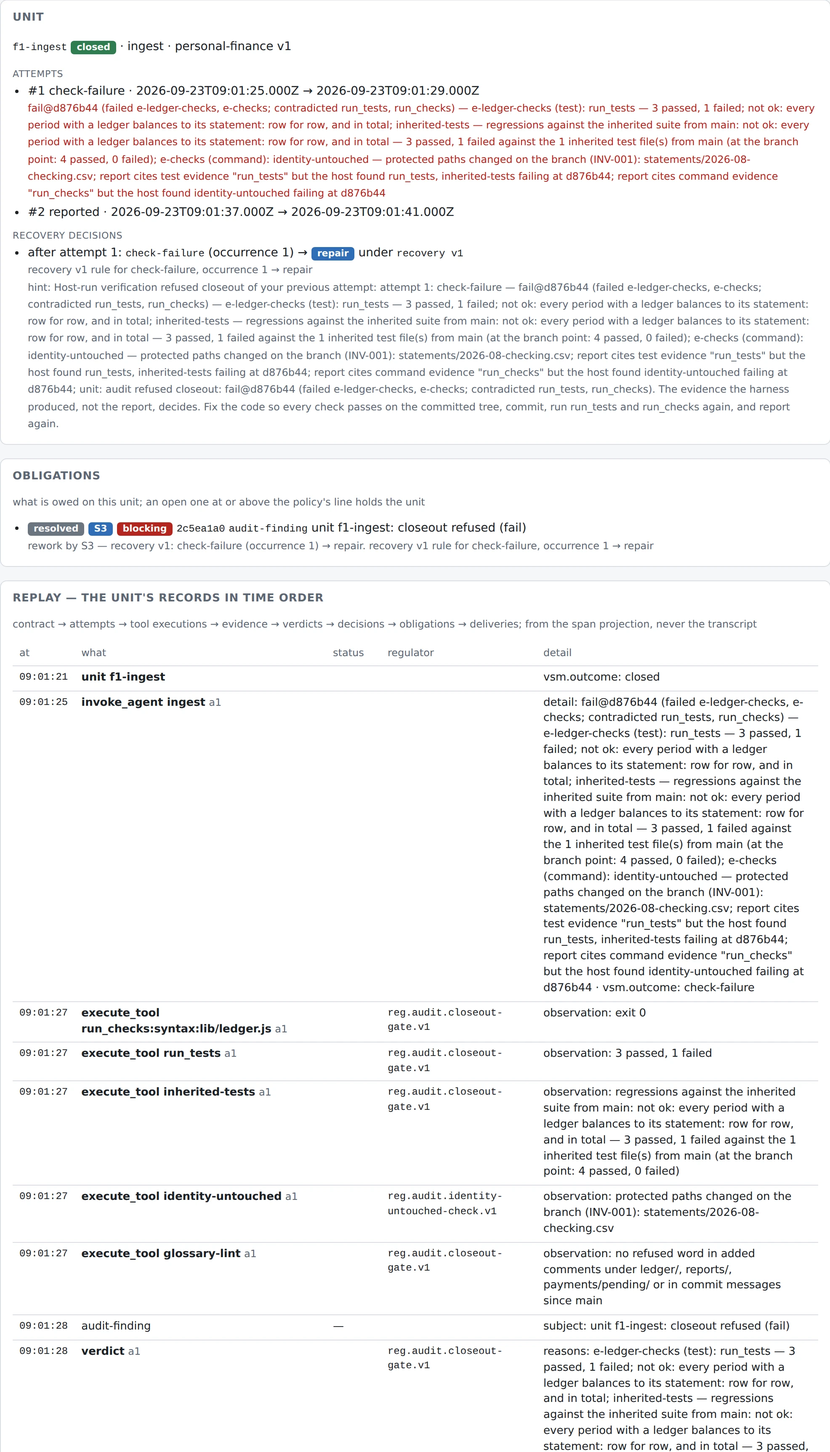
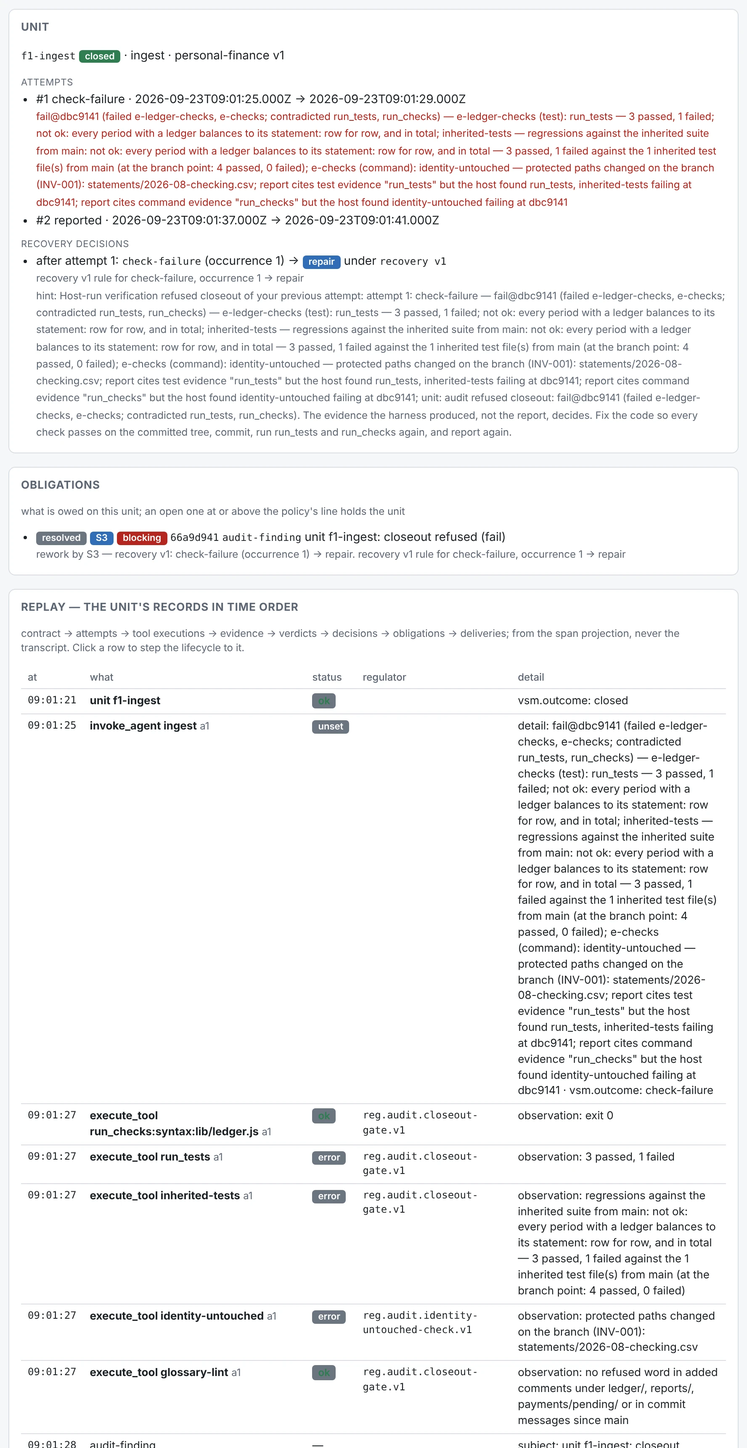
Retake the control-room screenshots from the product's script; add the lifecycle and map views
Nine images retaken by regulator's scripts/screenshots.mjs, two added
(lifecycle-f1, map) and shown on the product and ledger pages. Alt texts
and captions now say what the images show (three workloads, six
profiles). The v1 archive keeps its own copies of the images it shows;
four images no page uses are removed. The product page's retired-cards
sentence says fifty-three.

Claude-Session: https://claude.ai/code/session_014uhRNqFCFdvFUxUkzJQCse

diff --git a/site/personal-finance.html b/site/personal-finance.html
@@ -442,18 +442,18 @@ regulator-control-room --definition $R --instance ~/ledger   <span class="c"># @
   <h2 class="title">The same records, read back</h2>
   <p class="lede">The control room is a read-only dashboard: a web page that shows you
     everything the system recorded about the run in step 3, without being able to change
-    any of it. Below are three real screenshots of it, each with a plain-language
+    any of it. Below are four real screenshots of it, each with a plain-language
     breakdown of what's on screen.</p>
 
   <div class="shot-row">
-    <div class="shot-img"><img src="img/control-room/instances-ledger.webp" alt="The control room's instances view for the household ledger: the manifest line, five units with status, attempts, routing and audit revision, the live lease, the open consent obligation marked veto, the interaction row and the scoped memory entry." loading="lazy"></div>
+    <div class="shot-img"><img src="img/control-room/instances-ledger.webp" alt="The control room's instances view for the household ledger: the manifest line, five units with status, attempts, routing and audit revision, the expired lease of the paused unit, the open consent obligation marked veto, the interaction row and the scoped memory entries." loading="lazy"></div>
     <div class="shot-notes">
       <div class="shot-title">The overview: everything about this run, at a glance</div>
       <ul>
         <li>Top: which ledger this is, which code revision ran it, and who set it up.</li>
         <li>A row per unit: four say <b>closed</b> (done and independently verified), one says <b>paused</b>, waiting on a person.</li>
         <li>One open question, front and center: "can we pay the rent?", flagged as blocking until someone answers it.</li>
-        <li>One remembered fact (the grocery-store categorization from earlier), tagged with a date to double-check it's still true.</li>
+        <li>What the bookkeeper remembered (the grocery-store categorization from earlier), each fact tagged with a date to double-check it's still true.</li>
       </ul>
     </div>
   </div>
@@ -464,7 +464,7 @@ regulator-control-room --definition $R --instance ~/ledger   <span class="c"># @
     waiting on a person, and one that made a mistake and got corrected automatically.</p>
 
   <div class="shot-row">
-    <div class="shot-img"><img src="img/control-room/inspector-unit-f5.webp" alt="The unit inspector for f5-prepare-payment: the paused attempt, the consent obligation, the replay from contract to delivery, an empty audit, the contract with its fixed decisions, and the result report with its residual uncertainty." loading="lazy"></div>
+    <div class="shot-img"><img src="img/control-room/inspector-unit-f5.webp" alt="The unit inspector for f5-prepare-payment: the paused attempt, the consent obligation, the replay from contract to delivery, and an empty audit section." loading="lazy"></div>
     <div class="shot-notes">
       <div class="shot-title">Drill-down #1: the unit that's waiting on a person</div>
       <ul>
@@ -478,14 +478,28 @@ regulator-control-room --definition $R --instance ~/ledger   <span class="c"># @
   </div>
 
   <div class="shot-row">
-    <div class="shot-img"><img src="img/control-room/inspector-unit-f1.webp" alt="The unit inspector for f1-ingest run careless: attempt 1 refused with the failing checks named, the repair decision and its hint, the replay with each host check and its observation, and attempt 2 closed, with the pre-merge trial's checks on the merged tree bound to the commit that landed." loading="lazy"></div>
+    <div class="shot-img"><img src="img/control-room/inspector-unit-f1.webp" alt="The unit inspector for f1-ingest run careless: attempt 1 refused with the failing checks named, the repair decision and its hint, the audit finding resolved by the rework, and the start of the replay with each host check and its observation." loading="lazy"></div>
     <div class="shot-notes">
       <div class="shot-title">Drill-down #2: the unit that made a mistake, then fixed it</div>
       <ul>
         <li>This is the "careless" run from step 3, the one that edited the bank statement by mistake.</li>
         <li>Its first attempt is marked <b>failed</b>, with the specific tests and checks that caught it named outright.</li>
         <li>Next: the system's decision to try again, plus a hint telling the retry exactly what went wrong.</li>
-        <li>Its second attempt is marked <b>closed</b>. This time everything passed, including one final check run after merging.</li>
+        <li>Its second attempt reported, and the unit is marked <b>closed</b>: this time everything passed.</li>
+        <li>Below that, the replay: each check the host ran on the first attempt, and what it observed.</li>
+      </ul>
+    </div>
+  </div>
+
+  <div class="shot-row">
+    <div class="shot-img"><img src="img/control-room/lifecycle-f1.webp" alt="The lifecycle view held at step 3 of f1-ingest: the unit state machine with the dispatched-to-blocked transition lit, and the why panel listing the failed checks and the edited statement." loading="lazy"></div>
+    <div class="shot-notes">
+      <div class="shot-title">The same mistake, as a path through the state machine</div>
+      <ul>
+        <li>Six boxes: every state a unit can be in. The arrows are the only moves the system allows between them.</li>
+        <li>The slider steps through this unit's history. Here it is held at step 3, where the first attempt ended.</li>
+        <li>The lit arrow is the move that step took: from <b>dispatched</b> to <b>blocked</b>.</li>
+        <li>The panel underneath says why, in the records' own words: which checks failed, and the bank statement that should not have been touched.</li>
       </ul>
     </div>
   </div>
@@ -493,10 +507,10 @@ regulator-control-room --definition $R --instance ~/ledger   <span class="c"># @
   <p class="step-lead" style="margin-top:26px;">Two more views exist in the same dashboard,
     shown smaller here since they're less central to this walkthrough:</p>
   <div class="grid2">
-    <figure class="shot"><img src="img/control-room/workloads.webp" alt="The definition's workloads: personal-finance and software-development, each unit type with its profile and checks." loading="lazy"><figcaption><b>Every kind of job the system knows how to run.</b> This household ledger and the software-development one from the rest of the course, side by side: proof the same engine runs both.</figcaption></figure>
-    <figure class="shot"><img src="img/control-room/profiles.webp" alt="The definition's five profiles with their tools, writable prefixes and thinking level." loading="lazy"><figcaption><b>Every permission grant the system knows about.</b> What each profile (bookkeeper, auditor, and the software ones) is actually allowed to touch.</figcaption></figure>
+    <figure class="shot"><img src="img/control-room/workloads.webp" alt="The definition's three workloads: personal-finance, portfolio and software-development, each unit type with its profile and checks." loading="lazy"><figcaption><b>Every kind of job the system knows how to run.</b> This household ledger, the portfolio close and the software-development one from the rest of the course, side by side: proof the same engine runs all three.</figcaption></figure>
+    <figure class="shot"><img src="img/control-room/profiles.webp" alt="The definition's six profiles with their tools, writable prefixes and thinking level." loading="lazy"><figcaption><b>Every permission grant the system knows about.</b> What each profile (bookkeeper, auditor, the portfolio's manager, and the software ones) is actually allowed to touch.</figcaption></figure>
   </div>
-  <p style="font-size:13.5px;color:var(--ink-dim);margin-top:14px;">More of this same dashboard (the full topology, the assurance and lifecycle views, a live instance under drift) is shown on <a href="product.html#control-room">the product page</a>.</p>
+  <p style="font-size:13.5px;color:var(--ink-dim);margin-top:14px;">More of this same dashboard (the full topology and the map of one regulated level) is shown on <a href="product.html#control-room">the product page</a>.</p>
 
   <p style="font-size:13px;color:var(--ink-dim);margin:18px 0 0;"><b style="color:var(--ink);">In the docs:</b> <a href="https://docs.regulator.metacoding.io/guide/control-room">The control room</a></p>
 </section>

diff --git a/site/v1/index.html b/site/v1/index.html
@@ -669,24 +669,24 @@
     and an inspector showing the whole record for a regulator or a unit, with the unit's
     replay in time order from the span projection. Below, the page itself over two instances.</p>
 
-  <figure class="shot"><img src="../img/control-room/overview.webp" alt="The control room as it opens: the definition's topology of 42 regulators in S5 to S1 columns on the left, and the inspector on the right showing the closeout gate's record." loading="lazy">
+  <figure class="shot"><img src="img/control-room/overview.webp" alt="The control room as it opens: the definition's topology of 42 regulators in S5 to S1 columns on the left, and the inspector on the right showing the closeout gate's record." loading="lazy">
     <figcaption><b>The page as it opens.</b> Left, the definition: 42 regulators by function, each card the channels it consumes and emits. Right, the inspector on a selected card — the closeout gate's record: purpose, what it absorbs, mechanism, authority, evidence, limitations, review date, ablation, retirement. The record, not a summary of it.</figcaption></figure>
 
   <div class="shots2">
-    <figure class="shot"><img src="../img/control-room/instances-ledger.webp" alt="The instances view for a household-ledger instance: manifest line, five units, a live lease, an open consent obligation with the veto marked, an interaction row and a memory entry." loading="lazy">
+    <figure class="shot"><img src="img/control-room/instances-ledger.webp" alt="The instances view for a household-ledger instance: manifest line, five units, a live lease, an open consent obligation with the veto marked, an interaction row and a memory entry." loading="lazy">
       <figcaption><b>Instances.</b> The <a href="personal-finance.html">household ledger</a> after its August close: four units closed, one paused on a consent question that is an open obligation owed to a person, delivered to the outbox, holding the unit.</figcaption></figure>
-    <figure class="shot"><img src="../img/control-room/instances-drift.webp" alt="The instances view for the slugkit drift instance: six units blocked after three attempts each, routed check-failure to replan, six live leases, six recovery-decision obligations owed to S3." loading="lazy">
+    <figure class="shot"><img src="img/control-room/instances-drift.webp" alt="The instances view for the slugkit drift instance: six units blocked after three attempts each, routed check-failure to replan, six live leases, six recovery-decision obligations owed to S3." loading="lazy">
       <figcaption><b>Instances.</b> The drift scenario run by the drifter under the treatment arm: every unit refused three times by the closeout checks, routed <code>repair → repair → replan</code>, and held by the obligation the replan opened for S3.</figcaption></figure>
   </div>
 
   <div class="shots2">
-    <figure class="shot"><img src="../img/control-room/assurance.webp" alt="The assurance view: the drift suite's arms and the committed reports' metrics per arm with confidence intervals and the interpretation." loading="lazy">
+    <figure class="shot"><img src="img/control-room/assurance.webp" alt="The assurance view: the drift suite's arms and the committed reports' metrics per arm with confidence intervals and the interpretation." loading="lazy">
       <figcaption><b>Assurance.</b> The suite's arms — control, treatment, three ablations — and each committed report: every metric per arm with its interval, and the person's interpretation, including where the gated arm lost.</figcaption></figure>
-    <figure class="shot"><img src="../img/control-room/lifecycle.webp" alt="The lifecycle view: each regulator's review date, ablation switch, the arm that covers it, and its retirement condition." loading="lazy">
+    <figure class="shot"><img src="img/control-room/lifecycle.webp" alt="The lifecycle view: each regulator's review date, ablation switch, the arm that covers it, and its retirement condition." loading="lazy">
       <figcaption><b>Lifecycle.</b> Every regulator's review date (overdue fails <code>regulator check</code>), its ablation switch and the arm that throws it, and the condition under which it retires.</figcaption></figure>
   </div>
 
-  <figure class="shot"><img src="../img/control-room/inspector-unit-drift.webp" alt="The unit inspector for d1-fix in the drift instance: three attempts each refused, the recovery decisions with their hints, the replay of every host check with its observation, and the audit verdicts." loading="lazy">
+  <figure class="shot"><img src="img/control-room/inspector-unit-drift.webp" alt="The unit inspector for d1-fix in the drift instance: three attempts each refused, the recovery decisions with their hints, the replay of every host check with its observation, and the audit verdicts." loading="lazy">
     <figcaption><b>Inspector — a unit's replay</b> (the top of it). One drifting unit: three attempts, each refused by <code>export-signature</code> and the vendor and identity checks; the router's decisions with the hint each attempt was given; the obligations each opened and resolved; then the replay — contract, <code>invoke_agent</code>, every <code>execute_tool</code> check with its observation, verdict, decision, obligation — from the span projection, never the transcript. Below what is shown: the audit log, the contract and the three reports as written.</figcaption></figure>
 
   <p style="font-size:13.5px;color:var(--ink-dim);margin-top:14px;">The ledger's own inspector views — the paused payment unit and the careless ingest unit refused and repaired — are on the <a href="personal-finance.html#room">worked example</a>.</p>

diff --git a/site/v1/personal-finance.html b/site/v1/personal-finance.html
@@ -307,18 +307,18 @@ node packages/control-room/dist/cli.js --definition course/lab --instance ~/ledg
     instance after the scripted close, with <code>f1-ingest</code> run careless and
     <code>f5-prepare-payment</code> left waiting on consent.</p>
 
-  <figure class="shot"><img src="../img/control-room/instances-ledger.webp" alt="The control room's instances view for the household ledger: the manifest line, five units with status, attempts, routing and audit revision, the live lease, the open consent obligation marked veto, the interaction row and the scoped memory entry." loading="lazy">
+  <figure class="shot"><img src="img/control-room/instances-ledger.webp" alt="The control room's instances view for the household ledger: the manifest line, five units with status, attempts, routing and audit revision, the live lease, the open consent obligation marked veto, the interaction row and the scoped memory entry." loading="lazy">
     <figcaption><b>Instances.</b> The manifest line (definition, revision, Pi pin, who initialized it, the declared prefixes); five units — four closed, <code>f1-ingest</code> after a <code>check-failure → repair</code>, <code>f5-prepare-payment</code> paused; the live lease; the consent obligation, open, owed to a human, blocking, <em>veto</em>; the interaction with <code>S1</code> as the outcome's author because nobody was there; the memory entry with its review date.</figcaption></figure>
 
-  <figure class="shot"><img src="../img/control-room/inspector-unit-f5.webp" alt="The unit inspector for f5-prepare-payment: the paused attempt, the consent obligation, the replay from contract to delivery, an empty audit, the contract with its fixed decisions, and the result report with its residual uncertainty." loading="lazy">
+  <figure class="shot"><img src="img/control-room/inspector-unit-f5.webp" alt="The unit inspector for f5-prepare-payment: the paused attempt, the consent obligation, the replay from contract to delivery, an empty audit, the contract with its fixed decisions, and the result report with its residual uncertainty." loading="lazy">
     <figcaption><b>Inspector — the paused unit.</b> The attempt recorded as paused with the question; the obligation delivered once to the outbox; the replay in time order — <code>invoke_agent</code>, obligation opened, interaction requested and answered <em>unavailable</em>, the delivery journaled as intended then committed; no audit, because nothing was verified; the contract with consent fixed by a named person; the report saying nothing was written.</figcaption></figure>
 
-  <figure class="shot"><img src="../img/control-room/inspector-unit-f1.webp" alt="The unit inspector for f1-ingest run careless: attempt 1 refused with the failing checks named, the repair decision and its hint, the replay with each host check and its observation, and attempt 2 closed with the post-merge checks." loading="lazy">
+  <figure class="shot"><img src="img/control-room/inspector-unit-f1.webp" alt="The unit inspector for f1-ingest run careless: attempt 1 refused with the failing checks named, the repair decision and its hint, the replay with each host check and its observation, and attempt 2 closed with the post-merge checks." loading="lazy">
     <figcaption><b>Inspector — the careless unit.</b> Attempt 1: <code>run_tests</code> 3 passed 1 failed, <code>identity-untouched</code> naming <code>statements/2026-08-checking.csv</code>, the report's claims contradicted by the host; the verdict, the audit finding, the router's <code>repair</code> with its hint. Attempt 2: four passing checks, the verdict, the merge, and <code>post-merge:run_tests</code> on the base.</figcaption></figure>
 
   <div class="grid2">
-    <figure class="shot"><img src="../img/control-room/workloads.webp" alt="The definition's workloads: personal-finance and software-development, each unit type with its profile and checks." loading="lazy"><figcaption><b>Definition — two workloads.</b> The loop is generic over them; each unit type names its profile and the checks the host runs.</figcaption></figure>
-    <figure class="shot"><img src="../img/control-room/profiles.webp" alt="The definition's five profiles with their tools, writable prefixes and thinking level." loading="lazy"><figcaption><b>Definition — five profiles.</b> Positive grants over declared effects; the bookkeeper's prefixes and the auditor's empty ones.</figcaption></figure>
+    <figure class="shot"><img src="img/control-room/workloads.webp" alt="The definition's workloads: personal-finance and software-development, each unit type with its profile and checks." loading="lazy"><figcaption><b>Definition — two workloads.</b> The loop is generic over them; each unit type names its profile and the checks the host runs.</figcaption></figure>
+    <figure class="shot"><img src="img/control-room/profiles.webp" alt="The definition's five profiles with their tools, writable prefixes and thinking level." loading="lazy"><figcaption><b>Definition — five profiles.</b> Positive grants over declared effects; the bookkeeper's prefixes and the auditor's empty ones.</figcaption></figure>
   </div>
   <p style="font-size:13.5px;color:var(--ink-dim);margin-top:14px;">More of the page — the topology, the assurance and lifecycle views, the drift instance — on the <a href="index.html#control-room">overview</a>.</p>
 </section>

diff --git a/site/product.html b/site/product.html
@@ -713,7 +713,7 @@
     <tr><td><b>ownership</b>, <b>introducedIn</b></td><td>who reviews it and by when — <code>regulator review --due</code> lists what is owed, and <code>doctor</code> fails on an overdue date — and the release that first shipped it</td></tr>
   </table></div>
   <p style="font-size:13.5px;color:var(--ink-dim);margin:18px 0 0;"><b style="color:var(--ink);">Retirement is a decision, and the record stays.</b>
-    Two of the forty-five cards are retired: the first lexical write gate, superseded by the identity write gate, and the post-merge check, replaced by the pre-merge trial. Each keeps its history and says what replaced it, so the registry reads as the system's memory of itself, not only its present.</p>
+    Two of the fifty-three cards are retired: the first lexical write gate, superseded by the identity write gate, and the post-merge check, replaced by the pre-merge trial. Each keeps its history and says what replaced it, so the registry reads as the system's memory of itself, not only its present.</p>
   <p style="font-size:13px;color:var(--ink-dim);margin:18px 0 0;"><b style="color:var(--ink);">In the docs:</b> <a href="https://docs.regulator.metacoding.io/reference/regulators">The regulators</a> · <a href="https://docs.regulator.metacoding.io/reference/boundary">Enforcement boundary</a> · <a href="https://docs.regulator.metacoding.io/DEBT">Build debt</a></p>
 </section>
 
@@ -729,16 +729,23 @@
     <div><b style="color:var(--ink);">Topology</b> — regulators by function, with the channels each one declares it consumes and emits.</div>
     <div><b style="color:var(--ink);">Instances</b> — every instance's units with budget, routing decision, audit verdict and what's owed on them; <button type="button" class="gl" data-term="lease">leases</button>; <button type="button" class="gl" data-term="obligation">obligations</button> by consumer, with the veto marked; unrouted signals; the instance manifest.</div>
     <div><b style="color:var(--ink);">Assurance &amp; lifecycle</b> — the committed eval reports, plus each regulator's review date, ablation switch and retirement condition.</div>
+    <div><b style="color:var(--ink);">Lifecycle</b> — the unit state machine the loop enforces, with a selected unit's history stepped through it and the reason for each move.</div>
+    <div><b style="color:var(--ink);">Map</b> — one regulated level drawn from the definition, with the instance's units placed on it.</div>
     <div><b style="color:var(--ink);">Inspector</b> — the whole record for a regulator or a unit, including the unit's replay in time order.</div>
   </div>
 
   <figure class="shot"><img src="img/control-room/overview.webp" alt="The control room as it opens: the definition's topology of 53 regulators in S5 to S1 columns on the left, and the inspector on the right showing the closeout gate's record." loading="lazy">
     <figcaption><b>The page as it opens.</b> Left, the definition: 53 regulators by function, each card showing the channels it consumes and emits. Right, the inspector on a selected card, here the closeout gate's whole record: purpose, what it absorbs, mechanism, authority, evidence, limitations, review date, ablation, retirement.</figcaption></figure>
 
+  <figure class="shot" style="margin-top:20px;"><img src="img/control-room/lifecycle-f1.webp" alt="The lifecycle view: six unit states with numbered transitions, one unit's history held at the step where its first attempt was refused, and the why panel listing the failed checks." loading="lazy">
+    <figcaption><b>The lifecycle, stepped.</b> The six states a unit can be in and the twelve moves the loop allows, with one unit's history on it: here the step where the host's checks refused a first attempt, and the reasons as the records state them.</figcaption></figure>
+
+  <figure class="shot" style="margin-top:20px;"><img src="img/control-room/map.webp" alt="The map: identity and advice files at the top, the loop's steps, the unit types under their profiles, the host checks, the router and obligations, operational memory and the append-only records." loading="lazy">
+    <figcaption><b>The map.</b> One regulated level as the definition declares it: who may write the identity, the loop, the unit types, the host's checks, the router, and the stores every screen above is read from.</figcaption></figure>
+
   <p style="font-size:13.5px;color:var(--ink-dim);margin-top:14px;">More of the page (units,
-    leases and obligations for a live instance, the assurance and lifecycle views, a unit's
-    full replay) is on the <a href="personal-finance.html#room">worked example</a> and
-    <a href="how-it-works.html">how it works</a>.</p>
+    leases and obligations for a live instance, a unit's full replay) is on the
+    <a href="personal-finance.html#room">worked example</a>.</p>
 
   <p style="font-size:13px;color:var(--ink-dim);margin:18px 0 0;"><b style="color:var(--ink);">In the docs:</b> <a href="https://docs.regulator.metacoding.io/guide/control-room">The control room</a> · <a href="https://docs.regulator.metacoding.io/concepts/evidence-about-the-regulators">Evidence about the regulators</a></p>
 </section>

diff --git a/site/README.md b/site/README.md
@@ -35,14 +35,15 @@ static files.
   The same popover opens on a figure's hotspots (`.fig-hot` groups in the "What's
   coming" SVGs), which carry their own card as `data-label`, `data-def` and `data-href`,
   so the figure's text has no second copy in the script.
-- `img/control-room/` — screenshots of `packages/control-room` over three instances (the
-  ledger after its scripted August close, the drift scenario run by the drifter, and the
-  fixture-repo close on the how-it-works page), and the three `portfolio-*` tables on
-  `one-process.html` (the units and the consent questions of the scripted September close
-  run by the manager, and the units of the same close run by the careless behaviour, from
-  `packages/regulator/src/portfolio.test.ts`); retake them when the page changes.
+- `img/control-room/` — screenshots of `packages/control-room`: the page as it opens, the
+  household ledger after its scripted August close (as the contracts ask, and run
+  carelessly), the definition's workloads and profiles, the map, and the three
+  `portfolio-*` tables on `one-process.html`. Every one is taken by the product
+  repository's `scripts/screenshots.mjs`; none is taken by hand. Retake them with
+  `node scripts/screenshots.mjs --website ../regulator-website` from a built checkout of
+  the product.
 - `v1/` — the previous version of the site (one course+product page, no glossary
-  tooltips), kept as a dead archive at `/v1/` with a banner pointing back here. Not
+  tooltips, its own copies of the screenshots it shows under `v1/img/`), kept as a dead archive at `/v1/` with a banner pointing back here. Not
   updated going forward.
 
 Hand-maintained alongside the repo's actual status; update the five live pages when

diff --git a/README.md b/README.md
@@ -30,7 +30,8 @@ One-time repo setting (not something a workflow can do): under **Settings → Pa
 These pages are hand-maintained. Update them when the product repository changes in a
 way a page states as fact — the package layout, the registry count, what ships — and
 retake the control-room screenshots under `site/img/control-room/` when the control room
-changes. The product's own documentation site is the reference; these pages are the
+changes (`node scripts/screenshots.mjs --website ../regulator-website`, in the product
+repository). The product's own documentation site is the reference; these pages are the
 pitch.
 
 Some of what a page states is checked. `node scripts/check-facts.mjs` reads the counts
